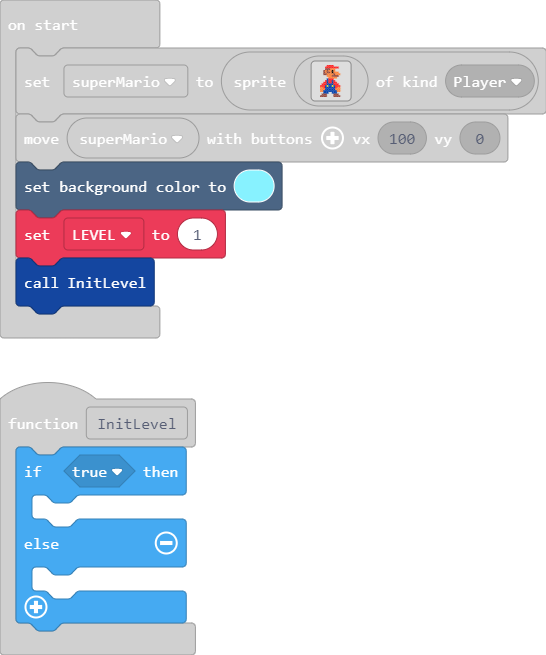
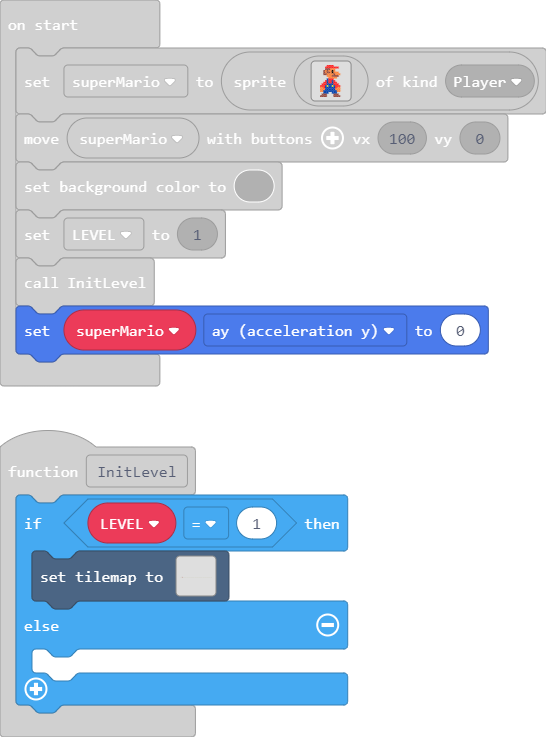
sart level1

Changed region(s): [[0.0, 0.0305, 1.0, 0.5496], [0.0311, 0.5802, 0.6538, 0.9771], [0.0, 0.0305, 0.0311, 0.0611]]

diff --git a/main.ts b/main.ts
@@ -1,10 +1,80 @@
+namespace myTiles {
+    //% blockIdentity=images._tile
+    export const tile0 = img`
+. . . . . . . . . . . . . . . . 
+. . . . . . . . . . . . . . . . 
+. . . . . . . . . . . . . . . . 
+. . . . . . . . . . . . . . . . 
+. . . . . . . . . . . . . . . . 
+. . . . . . . . . . . . . . . . 
+. . . . . . . . . . . . . . . . 
+. . . . . . . . . . . . . . . . 
+. . . . . . . . . . . . . . . . 
+. . . . . . . . . . . . . . . . 
+. . . . . . . . . . . . . . . . 
+. . . . . . . . . . . . . . . . 
+. . . . . . . . . . . . . . . . 
+. . . . . . . . . . . . . . . . 
+. . . . . . . . . . . . . . . . 
+. . . . . . . . . . . . . . . . 
+`
+    //% blockIdentity=images._tile
+    export const tile1 = img`
+2 2 2 2 f 2 2 2 2 f 2 2 2 2 f 2 
+2 2 2 2 f 2 2 2 2 f 2 2 2 2 f 2 
+f f f f f f f f f f f f f f f f 
+2 f 2 2 2 2 f 2 2 2 2 f 2 2 2 2 
+2 f 2 2 2 2 f 2 2 2 2 f 2 2 2 2 
+f f f f f f f f f f f f f f f f 
+2 2 2 f 2 2 2 2 f 2 2 2 2 f 2 2 
+2 2 2 f 2 2 2 2 f 2 2 2 2 f 2 2 
+f f f f f f f f f f f f f f f f 
+2 f 2 2 2 2 f 2 2 2 2 f 2 2 2 2 
+2 f 2 2 2 2 f 2 2 2 2 f 2 2 2 2 
+f f f f f f f f f f f f f f f f 
+2 2 2 2 f 2 2 2 2 f 2 2 2 2 f 2 
+2 2 2 2 f 2 2 2 2 f 2 2 2 2 f 2 
+f f f f f f f f f f f f f f f f 
+2 2 f 2 2 2 2 f 2 2 2 2 f 2 2 2 
+`
+}
 function InitLevel () {
-    if (true) {
-    	
+    if (LEVEL == 1) {
+        tiles.setTilemap(tiles.createTilemap(
+            hex`640017000000000000000000000000000000000000000000000000000000000000000000000000000000000000000000000000000000000000000000000000000000000000000000000000000000000000000000000000000000000000000000000000000000000000000000000000000000000000000000000000000000000000000000000000000000000000000000000000000000000000000000000000000000000000000000000000000000000000000000000000000000000000000000000000000000000000000000000000000000000000000000000000000000000000000000000000000000000000000000000000000000000000000000000000000000000000000000000000000000000000000000000000000000000000000000000000000000000000000000000000000000000000000000000000000000000000000000000000000000000000000000000000000000000000000000000000000000000000000000000000000000000000000000000000000000000000000000000000000000000000000000000000000000000000000000000000000000000000000000000000000000000000000000000000000000000000000000000000000000000000000000000000000000000000000000000000000000000000000000000000000000000000000000000000000000000000000000000000000000000000000000000000000000000000000000000000000000000000000000000000000000000000000000000000000000000000000000000000000000000000000000000000000000000000000000000000000000000000000000000000000000000000000000000000000000000000000000000000000000000000000000000000000000000000000000000000000000000000000000000000000000000000000000000000000000000000000000000000000000000000000000000000000000000000000000000000000000000000000000000000000000000000000000000000000000000000000000000000000000000000000000000000000000000000000000000000000000000000000000000000000000000000000000000000000000000000000000000000000000000000000000000000000000000000000000000000000000000000000000000000000000000000000000000000000000000000000000000000000000000000000000000000000000000000000000000000000000000000000000000000000000000000000000000000000000000000000000000000000000000000000000000000000000000000000000000000000000000000000000000000000000000000000000000000000000000000000000000000000000000000000000000000000000000000000000000000000000000000000000000000000000000000000000000000000000000000000000000000000000000000000000000000000000000000000000000000000000000000000000000000000000000000000000000000000000000000000000000000000000000000000000000000000000000000000000000000000000000000000000000000000000000000000000000000000000000000000000000000000000000000000000000000000000000000000000000000000000000000000000000000000000000000000000000000000000000000000000000000000000000000000000000000000000000000000000000000000000000000000000000000000000000000000000000000000000000000000000000000000000000000000000000000000000000000000000000000000000000000000000000000000000000000000000000000000000000000000000000000000000000000000000000000000000000000000000000000000000000000000000000000000000000000000000000000000000000000000000000000000000000000000000000000000000000000000000000000000000000000000000000000000000000000000000000000000000000000000000000000000000000000000000000000000000000000000000000000000000000000000000000000000000000000000200000000000000000000000000000000000000000000000000000000000000000000000000000000000000000000000000000000000000000000000000000000000000000000000000000000000000000000000000000000000000000000000000000002020200000000000000000000000000000000000000000000000000000000000000000000000000000000000000000000000000000000000000000000000000000000000000000000000000000000000000000000000000000000000000010101010101010101010101010101010101010101010101010101010101010101010101010101010101010101010101010101010101010101010101010101010101010101010101010101010101010101010101010101010101010101010101010101010000000000000000000000000000000000000000000000000000000000000000000000000000000000000000000000000000000000000000000000000000000000000000000000000000000000000000000000000000000000000000000000000000000000000000000000000000000000000000000000000000000000000000000000000000000000000000000000000000000000000000000000000000000000000000000000000000000000000000000000000000000000000000000000000000000000000000000000000000000000000000000000000000000000000000000000000000000000000000000000000000000000000000000000000000000000000000000000000000000000000000000000000000000000000000000000000000000000000000000000000000000000000000000000000000000000000000000000000000000000000000000000000000000000000000000000000000000000000000000000000000000000000000000000000000000000000000000000000000000000000000000000000000000000000000000000000000000000000000000000000000000000000000000000000000000000000000000000000000000000000000000000000000000000000000000000000000000000000000000000000000000000000000000000000000000000000000`,
+            img`
+. . . . . . . . . . . . . . . . . . . . . . . . . . . . . . . . . . . . . . . . . . . . . . . . . . . . . . . . . . . . . . . . . . . . . . . . . . . . . . . . . . . . . . . . . . . . . . . . . . . . 
+. . . . . . . . . . . . . . . . . . . . . . . . . . . . . . . . . . . . . . . . . . . . . . . . . . . . . . . . . . . . . . . . . . . . . . . . . . . . . . . . . . . . . . . . . . . . . . . . . . . . 
+. . . . . . . . . . . . . . . . . . . . . . . . . . . . . . . . . . . . . . . . . . . . . . . . . . . . . . . . . . . . . . . . . . . . . . . . . . . . . . . . . . . . . . . . . . . . . . . . . . . . 
+. . . . . . . . . . . . . . . . . . . . . . . . . . . . . . . . . . . . . . . . . . . . . . . . . . . . . . . . . . . . . . . . . . . . . . . . . . . . . . . . . . . . . . . . . . . . . . . . . . . . 
+. . . . . . . . . . . . . . . . . . . . . . . . . . . . . . . . . . . . . . . . . . . . . . . . . . . . . . . . . . . . . . . . . . . . . . . . . . . . . . . . . . . . . . . . . . . . . . . . . . . . 
+. . . . . . . . . . . . . . . . . . . . . . . . . . . . . . . . . . . . . . . . . . . . . . . . . . . . . . . . . . . . . . . . . . . . . . . . . . . . . . . . . . . . . . . . . . . . . . . . . . . . 
+. . . . . . . . . . . . . . . . . . . . . . . . . . . . . . . . . . . . . . . . . . . . . . . . . . . . . . . . . . . . . . . . . . . . . . . . . . . . . . . . . . . . . . . . . . . . . . . . . . . . 
+. . . . . . . . . . . . . . . . . . . . . . . . . . . . . . . . . . . . . . . . . . . . . . . . . . . . . . . . . . . . . . . . . . . . . . . . . . . . . . . . . . . . . . . . . . . . . . . . . . . . 
+. . . . . . . . . . . . . . . . . . . . . . . . . . . . . . . . . . . . . . . . . . . . . . . . . . . . . . . . . . . . . . . . . . . . . . . . . . . . . . . . . . . . . . . . . . . . . . . . . . . . 
+. . . . . . . . . . . . . . . . . . . . . . . . . . . . . . . . . . . . . . . . . . . . . . . . . . . . . . . . . . . . . . . . . . . . . . . . . . . . . . . . . . . . . . . . . . . . . . . . . . . . 
+. . . . . . . . . . . . . . . . . . . . . . . . . . . . . . . . . . . . . . . . . . . . . . . . . . . . . . . . . . . . . . . . . . . . . . . . . . . . . . . . . . . . . . . . . . . . . . . . . . . . 
+. . . . . . . . . . . . . . . . . . . . . . . . . . . . . . . . . . . . . . . . . . . . . . . . . . . . . . . . . . . . . . . . . . . . . . . . . . . . . . . . . . . . . . . . . . . . . . . . . . . . 
+. . . . . . . . . . . . . . . . . . . . . . . . . . . . . . . . . . . . . . . . . . . . . . . . . . . . . . . . . . . . . . . . . . . . . . . . . . . . . . . . . . . . . . . . . . . . . . . . . . . . 
+. . . . . . . . . . . . . . . . . . . . . . . . . . . . . . . . . . . . . . . . . . . . . . . . . . . . . . . . . . . . . . . . . . . . . . . . . . . . . . . . . . . . . . . . . . . . . . . . . . . . 
+. . . . . . . . . . . . . . . . . . . . . . . . . . . . . . . . . . . . . . . . . . . . . . . . . . . . . . . . . . . . . . . . . . . . . . . . . . . . . . . . . . . . . . . . . . . . . . . . . . . . 
+. . . . . . 2 . . . . . . . . . . . . . . . . . . . . . . . . . . . . . . . . . . . . . . . . . . . . . . . . . . . . . . . . . . . . . . . . . . . . . . . . . . . . . . . . . . . . . . . . . . . . . 
+. . . . . . 2 2 2 . . . . . . . . . . . . . . . . . . . . . . . . . . . . . . . . . . . . . . . . . . . . . . . . . . . . . . . . . . . . . . . . . . . . . . . . . . . . . . . . . . . . . . . . . . . 
+2 2 2 2 2 2 2 2 2 2 2 2 2 2 2 2 2 2 2 2 2 2 2 2 2 2 2 2 2 2 2 2 2 2 2 2 2 2 2 2 2 2 2 2 2 2 2 2 2 2 2 2 2 2 2 2 2 2 2 2 2 2 2 2 2 2 2 2 2 2 2 2 2 2 2 2 2 2 2 2 2 2 2 2 2 2 2 2 2 2 2 2 2 2 2 2 2 2 2 2 
+. . . . . . . . . . . . . . . . . . . . . . . . . . . . . . . . . . . . . . . . . . . . . . . . . . . . . . . . . . . . . . . . . . . . . . . . . . . . . . . . . . . . . . . . . . . . . . . . . . . . 
+. . . . . . . . . . . . . . . . . . . . . . . . . . . . . . . . . . . . . . . . . . . . . . . . . . . . . . . . . . . . . . . . . . . . . . . . . . . . . . . . . . . . . . . . . . . . . . . . . . . . 
+. . . . . . . . . . . . . . . . . . . . . . . . . . . . . . . . . . . . . . . . . . . . . . . . . . . . . . . . . . . . . . . . . . . . . . . . . . . . . . . . . . . . . . . . . . . . . . . . . . . . 
+. . . . . . . . . . . . . . . . . . . . . . . . . . . . . . . . . . . . . . . . . . . . . . . . . . . . . . . . . . . . . . . . . . . . . . . . . . . . . . . . . . . . . . . . . . . . . . . . . . . . 
+. . . . . . . . . . . . . . . . . . . . . . . . . . . . . . . . . . . . . . . . . . . . . . . . . . . . . . . . . . . . . . . . . . . . . . . . . . . . . . . . . . . . . . . . . . . . . . . . . . . . 
+`,
+            [myTiles.tile0,sprites.castle.tilePath2,myTiles.tile1],
+            TileScale.Sixteen
+        ))
     } else {
     	
     }
 }
+let LEVEL = 0
 let superMario = sprites.create(img`
 . . . . 2 2 2 2 . . . . 
 . . . 2 2 2 2 2 2 2 2 . 
@@ -28,5 +98,6 @@ e e e e . . . . e e e e
 `, SpriteKind.Player)
 controller.moveSprite(superMario, 100, 0)
 scene.setBackgroundColor(9)
-let LEVEL = 1
+LEVEL = 1
 InitLevel()
+superMario.ay = 0
